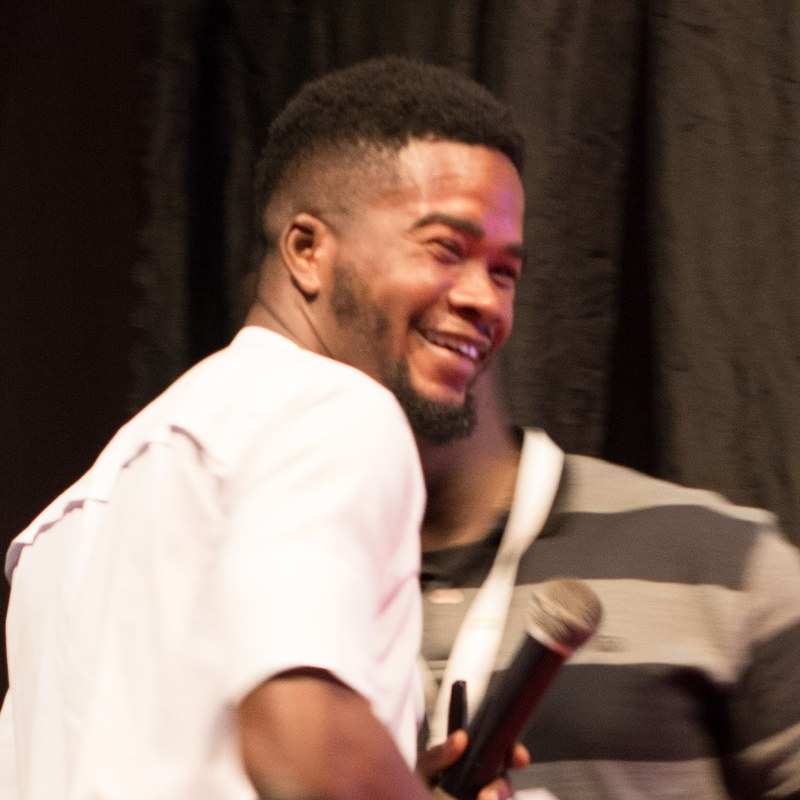
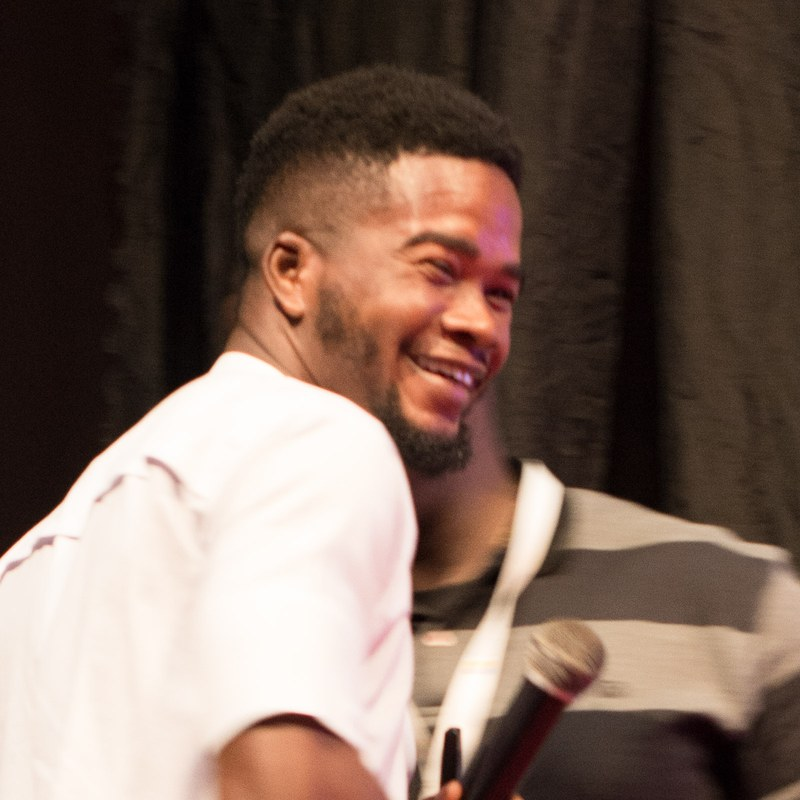
Drop Bedrock mention from bio and news; finalize header photo crop
The parenthetical read as two competing team names to anyone who
doesn't know Bedrock inference was subsumed into AGI Foundations.
Both bio and news now say "Inference Optimization Science team at
AWS AGI Foundations"; the org lineage stays on the CV, which has
room to explain it. Also drops the AWS link, which had no honest
destination (no public AGI Foundations page exists).

Header photo recropped to sit between the shoulder and upper-arm
framings: keeps the sleeve edge so the arm reads as an arm, while
holding the mic and background figure to the edge of the circle.

diff --git a/index.html b/index.html
@@ -66,7 +66,7 @@
         <div class="bio">
           <p>Hi 👋🏿 I'm a PhD student at CMU, grateful to be advised by <a href="https://www.cs.cmu.edu/~smithv/" target="_blank">Virginia Smith</a>. I work on inference efficiency for LLMs, i.e., making them cheaper and faster to run, on everyday hardware and at production scale.</p>
           <p>So far I've structurally pruned LLMs with forward passes alone, no gradients (Bonsai); evicted KV-cache entries by how a token's representation shifts, without ever materializing the attention matrix (EpiKV); built training-free cascades that escalate to a larger model only when cheaper ones disagree (ABC); and surfaced the latent parallelism hiding in everyday prompts (ParallelPrompt).</p>
-          <p>This summer I'm on the Inference Optimization Science team at AWS AGI Foundations (<a href="https://aws.amazon.com/bedrock/" target="_blank">Bedrock inference</a>), working with <a href="https://scholar.google.com/citations?hl=en&user=V_MKBgcAAAAJ" target="_blank">Nathan Pemberton</a> and <a href="https://www.amazon.science/author/kyle-ulrich" target="_blank">Kyle Ulrich</a> on speculative decoding.</p>
+          <p>This summer I'm on the Inference Optimization Science team at AWS AGI Foundations, working with <a href="https://scholar.google.com/citations?hl=en&user=V_MKBgcAAAAJ" target="_blank">Nathan Pemberton</a> and <a href="https://www.amazon.science/author/kyle-ulrich" target="_blank">Kyle Ulrich</a> on speculative decoding.</p>
         </div>
       </div>
     </article>

diff --git a/news.js b/news.js
@@ -3,7 +3,7 @@ const NEWS_ITEMS = [
 
   `<strong>[Jun 2026]</strong> I'll be teaching a skills session, <em>Doing ML Research from the Margins</em>, at the <a href="https://deeplearningindaba.com/2026/" target="_blank">Deep Learning Indaba</a> (Lagos).`,
 
-  `<strong>[May 2026]</strong> I'm starting my summer role on the Inference Optimization Science team at AWS AGI Foundations (<a href="https://aws.amazon.com/bedrock/" target="_blank">Bedrock inference</a>), working on speculative decoding for efficient inference. Fun times!`,
+  `<strong>[May 2026]</strong> I'm starting my summer role on the Inference Optimization Science team at AWS AGI Foundations, working on speculative decoding for efficient inference. Fun times!`,
 
   `<strong>[May 2026]</strong> I gave a talk at <a href="https://indabaxng.github.io/" target="_blank">IndabaX Nigeria</a> (University of Ibadan): a state-of-the-art overview of efficient AI and what it means for Africa. <a href="https://docs.google.com/presentation/d/1hLY94AmWbORSOQo8Xk-oj_SaiN3G7MXg8w5jBZ2K01c/edit?usp=sharing" target="_blank">Slides</a>.`,
 
